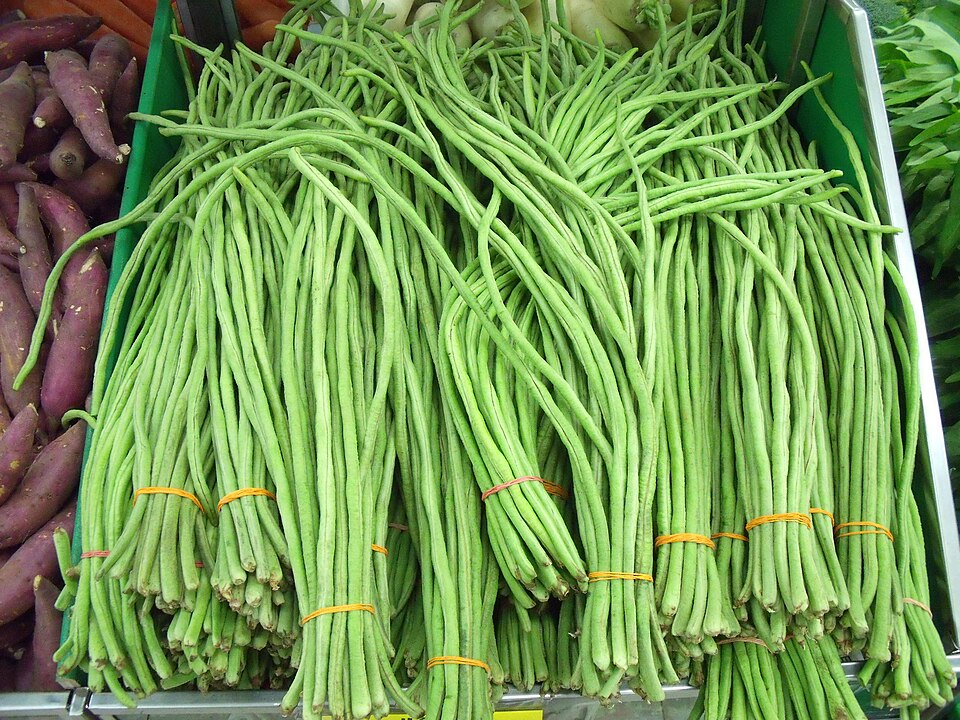
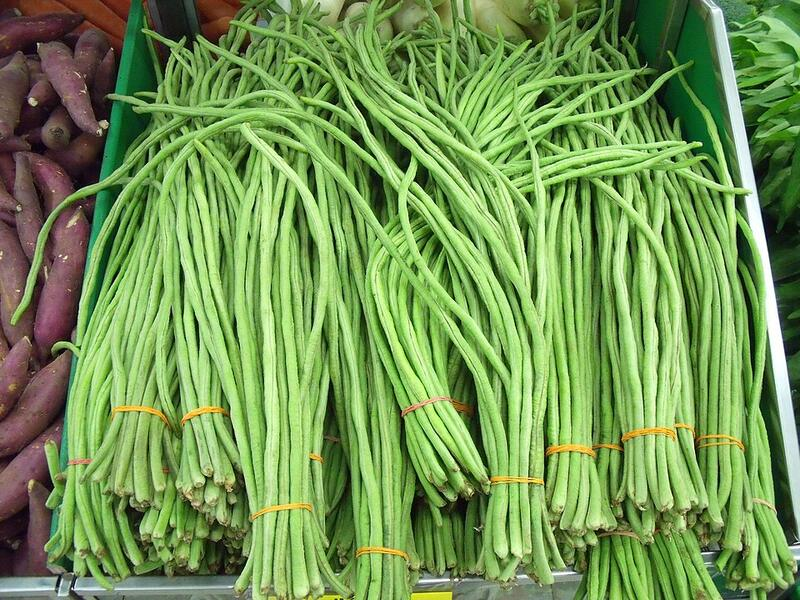
Photos : 98 plantes sur 100, crosnes et cassis choisis
- Haricot kilomètre, arroche et mufliers : photos recompressées en 800 px et indexées.
- Crosnes (plante en fleur) et cassis (branche de baies) : photo choisie dans la dernière recherche.

Claude-Session: https://claude.ai/code/session_01RnqF11vRXNoMNYRvpJX2so

diff --git a/components/plant-stock-photos.ts b/components/plant-stock-photos.ts
@@ -55,6 +55,7 @@ export const STOCK_PHOTOS: Record<string, number> = {
   "nz-spinach": require("@/assets/plants/nz-spinach.jpg"),
   "oca": require("@/assets/plants/oca.jpg"),
   "okra": require("@/assets/plants/okra.jpg"),
+  "orach": require("@/assets/plants/orach.jpg"),
   "oregano": require("@/assets/plants/oregano.jpg"),
   "oyster-plant": require("@/assets/plants/oyster-plant.jpg"),
   "pak-choi": require("@/assets/plants/pak-choi.jpg"),
@@ -75,6 +76,7 @@ export const STOCK_PHOTOS: Record<string, number> = {
   "sage": require("@/assets/plants/sage.jpg"),
   "savory": require("@/assets/plants/savory.jpg"),
   "shiso": require("@/assets/plants/shiso.jpg"),
+  "snapdragon": require("@/assets/plants/snapdragon.jpg"),
   "sorrel": require("@/assets/plants/sorrel.jpg"),
   "spinach": require("@/assets/plants/spinach.jpg"),
   "spring-onion": require("@/assets/plants/spring-onion.jpg"),
@@ -95,6 +97,7 @@ export const STOCK_PHOTOS: Record<string, number> = {
   "wild-garlic": require("@/assets/plants/wild-garlic.jpg"),
   "winter-purslane": require("@/assets/plants/winter-purslane.jpg"),
   "woodland-strawberry": require("@/assets/plants/woodland-strawberry.jpg"),
+  "yardlong-bean": require("@/assets/plants/yardlong-bean.jpg"),
   "zinnia": require("@/assets/plants/zinnia.jpg"),
   "zucchini": require("@/assets/plants/zucchini.jpg"),
 };

diff --git a/tests/stock-photos.test.ts b/tests/stock-photos.test.ts
@@ -13,7 +13,7 @@ const index = fs.readFileSync(path.join(ROOT, "components/plant-stock-photos.ts"
  * scripts/photos/telecharger-photos.mjs) : en attendant, l'app montre leur emoji. Cette liste ne
  * fait que rétrécir.
  */
-const AWAITING_PHOTO = new Set(["yardlong-bean", "orach", "crosne", "snapdragon", "blackcurrant"]);
+const AWAITING_PHOTO = new Set(["crosne", "blackcurrant"]);
 
 describe("photos d'exemple des plantes", () => {
   it("n'attendent leur photo que pour des plantes qui n'en ont vraiment pas encore", () => {

diff --git a/CLAUDE.md b/CLAUDE.md
@@ -106,7 +106,7 @@ Fait (validé sur son téléphone) :
   Catalogue : « Voir mon balcon » dans une barre sous la liste (pas en surimpression).
 
 - **Photos d'exemple des plantes** (Wikimedia Commons, libres de droits) : `assets/plants/<id>.jpg`
-  (95 sur 100, ~8 Mo), crédits dans `assets/plants/credits.json`, index généré `components/plant-stock-photos.ts`
+  (98 sur 100, ~8 Mo), crédits dans `assets/plants/credits.json`, index généré `components/plant-stock-photos.ts`
   (`node scripts/photos/generer-index.mjs`). `PlantPicture` montre ta photo, sinon la photo d'exemple,
   sinon l'emoji ; `CatalogPicture` pour le catalogue, l'accueil et l'onboarding ; fiche plante avec
   « Photo d'exemple » + « Ajoute ta photo ». Écran `app/credits.tsx` (Réglages → Crédits photos).
@@ -174,10 +174,9 @@ Livré, à valider sur son téléphone :
    crosnes, œillet mignardise, dahlias nains, mufliers, fuchsia rustique, fraisier des bois, kiwaï,
    cassissier, mûres sans épines) et des variétés marquées `kind` (« Ancienne », « Originale »,
    « Nouveauté », `VARIETY_KIND_LABELS`) : filtre « Anciennes & originales » dans le catalogue,
-   pastilles dans sa fiche, mention dans le choix de variété de la fiche plante. **Photos d'exemple** : 95 sur 100 le 02/10.
-   Restent (liste `AWAITING_PHOTO` dans `tests/stock-photos.test.ts`, emoji en attendant) : haricot
-   kilomètre, arroche, mufliers (choisis dans `choix.json`, il reste `--final` à lancer) ; crosnes et
-   cassis (nouvelle recherche `--encore` dans `recherches-bis.json`). Après chaque `--final` : recompresser
+   pastilles dans sa fiche, mention dans le choix de variété de la fiche plante. **Photos d'exemple** : 98 sur 100 le 02/10.
+   Restent (liste `AWAITING_PHOTO` dans `tests/stock-photos.test.ts`, emoji en attendant) : crosnes et
+   cassis (choisis dans `choix.json`, il reste `--final` à lancer). Après chaque `--final` : recompresser
    en 800 px qualité 74 (`convert -resize '800x800>' -strip -quality 74`), `node scripts/photos/generer-index.mjs`,
    retirer les plantes de `AWAITING_PHOTO`.
 5. Nouveau : suggestions de plantes selon la saison / le mois (quoi semer ou planter maintenant).
